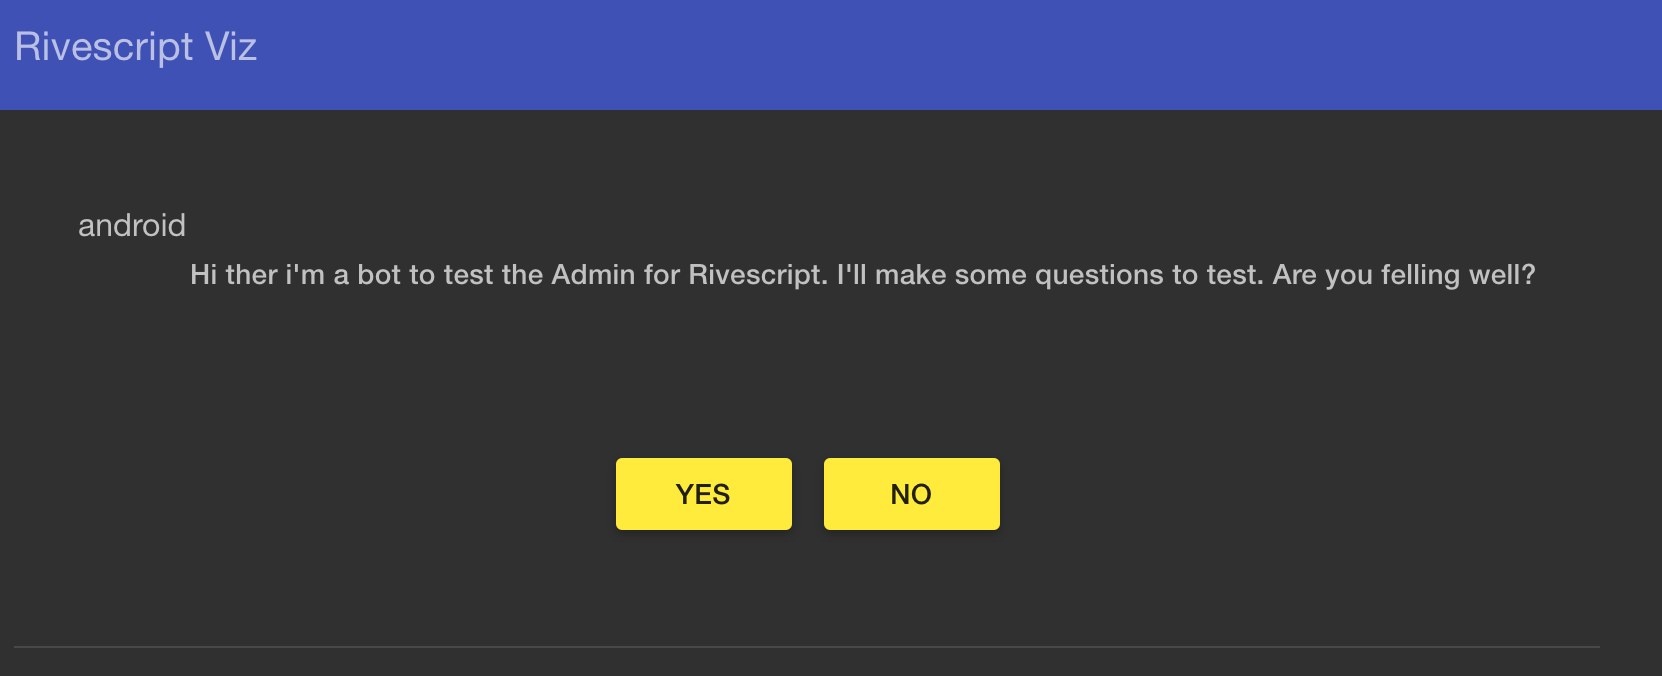
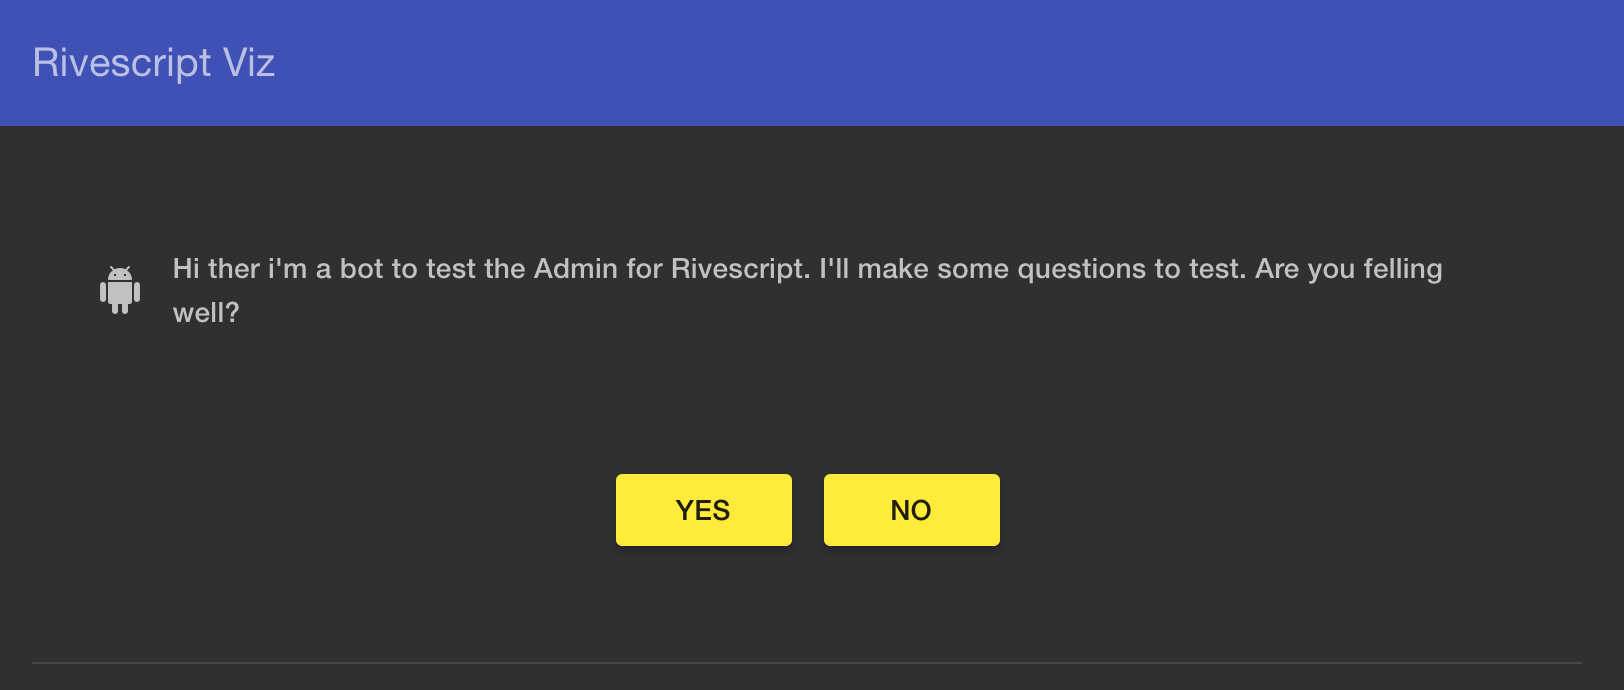
fixing layout bugs

diff --git a/public/js/rive.js b/public/js/rive.js
@@ -1,98 +1,113 @@
-app.controller('RiveCtrl', function($scope, $filter, $mdDialog, $mdMedia, $location, $http) {
-    $scope.topics = [];
-    $scope.rivedata = {};
+  app.controller('RiveCtrl', function($scope, $filter, $mdDialog, $mdMedia, $location, $http) {
+      $scope.topics = [];
+      $scope.rivedata = {};
 
-    $scope.gridOptions = {
-        appScopeProvider: this,
-        data: []
-    };
+      $scope.gridOptions = {
+          appScopeProvider: this,
+          gridMenuShowHideColumns: false,
+          data: []
+      };
 
-    $scope.gridOptions.columnDefs = [{
-        name: 'topic',
-        displayName: 'Topic',
-        width: '12%',
-        enableCellEdit: true,
-        editFileChooserCallback: $scope.storeFile
-    }, {
-        name: 'trigger',
-        displayName: 'Trigger',
-        width: '12%',
-        enableCellEdit: true
-    }, {
-        name: 'condition',
-        displayName: 'Condition',
-        width: '25%',
-        enableCellEdit: true,
-        editableCellTemplate: '<textarea ng-class="\'colt\' + col.uid" ui-grid-editor ng-model="MODEL_COL_FIELD" ngEnter></textarea>'
-    }, {
-        name: 'value',
-        displayName: 'Reply',
-        width: '35%',
-        enableCellEdit: true,
-        editableCellTemplate: '<textarea ng-class="\'colt\' + col.uid" ui-grid-editor ng-model="MODEL_COL_FIELD" ngEnter></textarea>'
-    }, {
-        name: 'goto',
-        displayName: 'Topic Destination',
-        width: '10%',
-        editableCellTemplate: 'ui-grid/dropdownEditor',
-        editDropdownOptionsFunction: function(rowEntity, colDef) {
-            if (rowEntity.topic) {
-                return $scope.topics;
-            } else {
-                return $scope.topics;
-            }
-        }
-    }, {
-        name: 'Remove',
-        width: '6%',
-        cellTemplate: '<md-button class="md-raised md-warn" ng-click="grid.appScope.deleteRow(row)">-</md-button><md-button class="md-raised md-primary" ng-click="alert(\'Conf not implemented yet\')">?</md-button>'
-    }];
+      $scope.gridOptions.columnDefs = [{
+          name: 'topic',enableHiding: false,
+          displayName: 'Topic',
+          width: '12%',
+          enableCellEdit: true,
+          editFileChooserCallback: $scope.storeFile
+      }, {
+          name: 'trigger',
+          displayName: 'Trigger',
+          width: '10%',
+          enableCellEdit: true
+      }, {
+          name: 'condition',
+          displayName: 'Condition',
+          width: '23%',
+          enableCellEdit: true,
+          editableCellTemplate: '<textarea ng-class="\'colt\' + col.uid" ui-grid-editor ng-model="MODEL_COL_FIELD" ngEnter></textarea>'
+      }, {
+          name: 'value',
+          displayName: 'Reply',
+          width: '30%',
+          enableCellEdit: true,
+          editableCellTemplate: '<textarea ng-class="\'colt\' + col.uid" ui-grid-editor ng-model="MODEL_COL_FIELD" ngEnter></textarea>'
+      }, {
+          name: 'goto',
+          displayName: 'Topic Destination',
+          width: '10%',
+          editableCellTemplate: 'ui-grid/dropdownEditor',
+          editDropdownOptionsFunction: function(rowEntity, colDef) {
+              if (rowEntity.topic) {
+                  return $scope.topics;
+              } else {
+                  return $scope.topics;
+              }
+          }
+      }, {
+          name: 'Previous',
+          width: '5%',enableSorting: false,enableHiding: false,
+          cellTemplate: '<md-button aria-label="Previous" class="md-fab md-raised md-mini" ng-click="alert(\'Conf not implemented yet\')">' +
+              '<md-icon md-font-set="material-icons"> undo </md-icon>' +
+              '</md-button>'
+      }, {
+          name: 'Redirect',
+          width: '5%',enableSorting: false,
+          cellTemplate: '<md-button aria-label="Redirect" class="md-fab md-raised md-mini" ng-click="alert(\'Conf not implemented yet\')">' +
+              '<md-icon md-font-set="material-icons"> call_missed_outgoing </md-icon>' +
+              '</md-button>'
+      }, {
+          name: 'Remove',
+          width: '5%',enableSorting: false,
+          cellTemplate: '<md-button aria-label="Delete" class="md-fab md-raised md-mini" ng-click="grid.appScope.deleteRow(row)">' +
+              '<md-icon md-font-set="material-icons"> delete </md-icon>' +
+              '</md-button>'
+      }];
+
+      $http.get("/rivescriptviz/topics/spreadsheet").then(function(response) {
+          $scope.gridOptions.data = response.data.data;
+          $scope.topics = response.data.topics;
+          console.log(response.data);
+      });
+
+      $scope.write = function() {
+          $http.post("/rivescriptviz/topics", $scope.gridOptions.data).then(function(response) {
+              alert("Data saved sucessfully");
+          });
+      };
+
+      $scope.storeFile = function(gridRow, gridCol, files) {
+          // ignore all but the first file, it can only select one anyway
+          // set the filename into this column
+          gridRow.entity.filename = files[0].name;
+
+          // read the file and set it into a hidden column, which we may do stuff with later
+          var setFile = function(fileContent) {
+              gridRow.entity.file = fileContent.currentTarget.result;
+              // put it on scope so we can display it - you'd probably do something else with it
+              $scope.lastFile = fileContent.currentTarget.result;
+              $scope.$apply();
+          };
+          var reader = new FileReader();
+          reader.onload = setFile;
+          reader.readAsText(files[0]);
+      };
+
+      $scope.deleteRow = function(row) {
+          var index = $scope.gridOptions.data.indexOf(row.entity);
+          $scope.gridOptions.data.splice(index, 1);
+      };
+
+      $scope.addRow = function(row) {
+        //grid.appScope.clickHandler()
+          var index = $scope.gridOptions.data.push({
+              "topic": "",
+              "trigger": "",
+              "condition": "",
+              "value": "",
+              "goto": "",
+              delete: true
+          });
+      };
 
 
-    $http.get("/rivescriptviz/topics/spreadsheet").then(function(response) {
-        $scope.gridOptions.data = response.data.data;
-        $scope.topics = response.data.topics;
-        console.log(response.data);
-    });
-
-    $scope.write = function() {
-        $http.post("/rivescriptviz/topics",$scope.gridOptions.data).then(function(response) {
-          alert("Data saved sucessfully");
-        });
-    };
-
-    $scope.storeFile = function(gridRow, gridCol, files) {
-        // ignore all but the first file, it can only select one anyway
-        // set the filename into this column
-        gridRow.entity.filename = files[0].name;
-
-        // read the file and set it into a hidden column, which we may do stuff with later
-        var setFile = function(fileContent) {
-            gridRow.entity.file = fileContent.currentTarget.result;
-            // put it on scope so we can display it - you'd probably do something else with it
-            $scope.lastFile = fileContent.currentTarget.result;
-            $scope.$apply();
-        };
-        var reader = new FileReader();
-        reader.onload = setFile;
-        reader.readAsText(files[0]);
-    };
-
-    $scope.deleteRow = function(row) {
-        var index = $scope.gridOptions.data.indexOf(row.entity);
-        $scope.gridOptions.data.splice(index, 1);
-    };
-
-    $scope.addRow = function(row) {
-        var index = $scope.gridOptions.data.push({
-            "topic": "",
-            "trigger": "",
-            "condition": "",
-            "value": "",
-            "goto": "",
-            delete: true
-        });
-    };
-
-
-});
+  });

diff --git a/templates/rivescriptviz/interview.html b/templates/rivescriptviz/interview.html
@@ -1,7 +1,7 @@
 <% include ../head %>
 
     <div ng-controller="InterviewCtrl" layout="column" ng-cloak class="md-inline-form">
-        <md-content md-theme="docs-dark" layout-gt-sm="row" layout-padding>
+        <md-content md-theme="docs-dark" layout-gt-sm="row" layout-padding >
 
             <div ng-show="!iniciado" flex layout-padding class="boxchat">
                 <md-input-container>
@@ -21,8 +21,8 @@
                     <md-list>
                         <md-list-item class="md-3-line" ng-repeat="item in messages">
 
-                            <md-icon md-font-set="material-icons" ng-if="item.who!='bot'"> face </md-icon>
-                            <md-icon md-font-set="material-icons" ng-if="item.who=='bot'"> android </md-icon>
+                            <md-icon class="iconchatmsg" md-font-set="material-icons" ng-if="item.who!='bot'"> face </md-icon>
+                            <md-icon class="iconchatmsg" md-font-set="material-icons" ng-if="item.who=='bot'"> android </md-icon>
                             <div class="md-list-item-text message">
                                 <p>{{item.message}}</p>
                             </div>

diff --git a/templates/rivescriptviz/rive.html b/templates/rivescriptviz/rive.html
@@ -1,14 +1,18 @@
 <% include ../head %>
 
 
-    <div ng-controller="RiveCtrl">
+
+
+    <div ng-controller="RiveCtrl" ng-cloak style="    height: 100%;">
+
+
 
         <md-subheader class="md-primary">
-            <md-button md-no-ink class=" md-raised md-primary" ng-click="grid.appScope.clickHandler()">Add</md-button>
+            <md-button md-no-ink class=" md-raised md-primary" ng-click="addRow()">Add</md-button>
             <md-button md-no-ink class=" md-raised md-primary" ng-click="write()">Save</md-button>
         </md-subheader>
 
-        <div id="rivegrid" ui-grid="gridOptions" ui-grid-edit class="grid"></div>
+        <div id="rivegrid" ui-grid="gridOptions" ui-grid-edit class="grid" style="    height: 100%;"></div>
     </div>
 
     <% include ../foot %>

diff --git a/public/base.css b/public/base.css
@@ -15,11 +15,18 @@ g {
     text-align: center;
     height: 100%;
 }
+.boxchatmsg {
+    max-height: 500px;
+}
+.iconchatmsg{
+    padding-right: 2%;
+    margin: auto !important;
+}
 .secinterview {
     max-height: 200px;
 }
-md-list-item{
-      max-height: 100px;
+md-list-item {
+    max-height: 100px;
 }
 
 /* CUSTOM FOR SPREADSHEET GRID */
@@ -54,4 +61,7 @@ textarea {
     height: auto !important;
     white-space: normal;
     overflow: visible;
+}
+.ui-grid-column-menu-button {
+    display: none;
 }

diff --git a/README.md b/README.md
@@ -18,16 +18,28 @@ In this page you have a spreadsheet that loads all `.rive` files inside `aiml` f
 
 A interview chat mode is when the user has to answer questions made by the bot. In this case we give to user some options to answer, as buttons, select input or text.
 
+### Answer with 2 to 4 questions
 
 ![Interview results](/public/interview2op.png)
 
 ![Interview results](/public/interview4op.png)
 
+### Answer with many options
+
 ![Interview results](/public/interviewmany.png)
+
+![Interview results](/public/interviewmanyoptions.png)
+
+### Answer text
 
 ![Interview results](/public/interviewmsg.png)
 
+### Interview Results
+
 In the end of the interview is possible to show a custom page using variables that the user answered during the interview.
+
+![Interview results](/public/interviewshowresults.png)
+
 
 ## Interview Results
 
